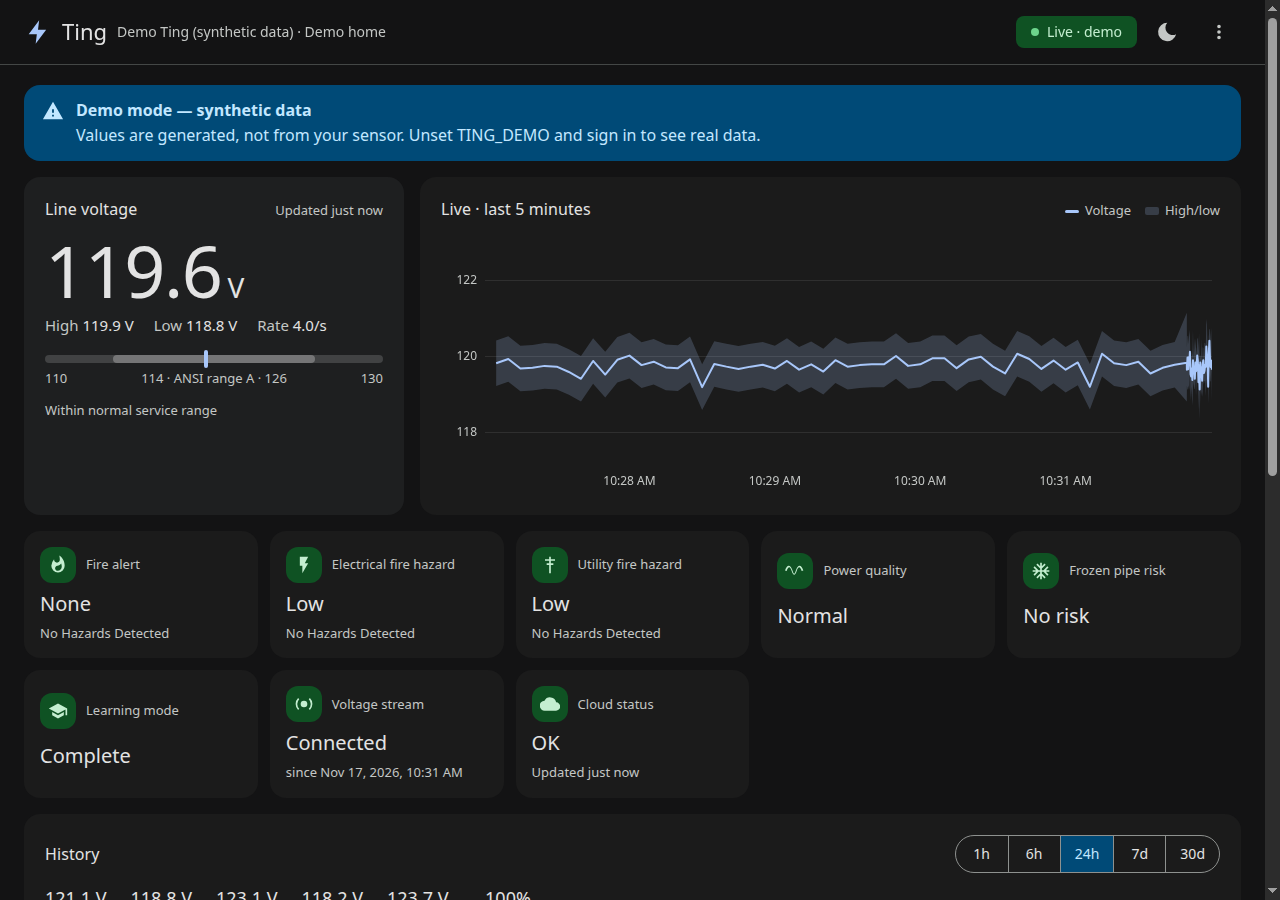
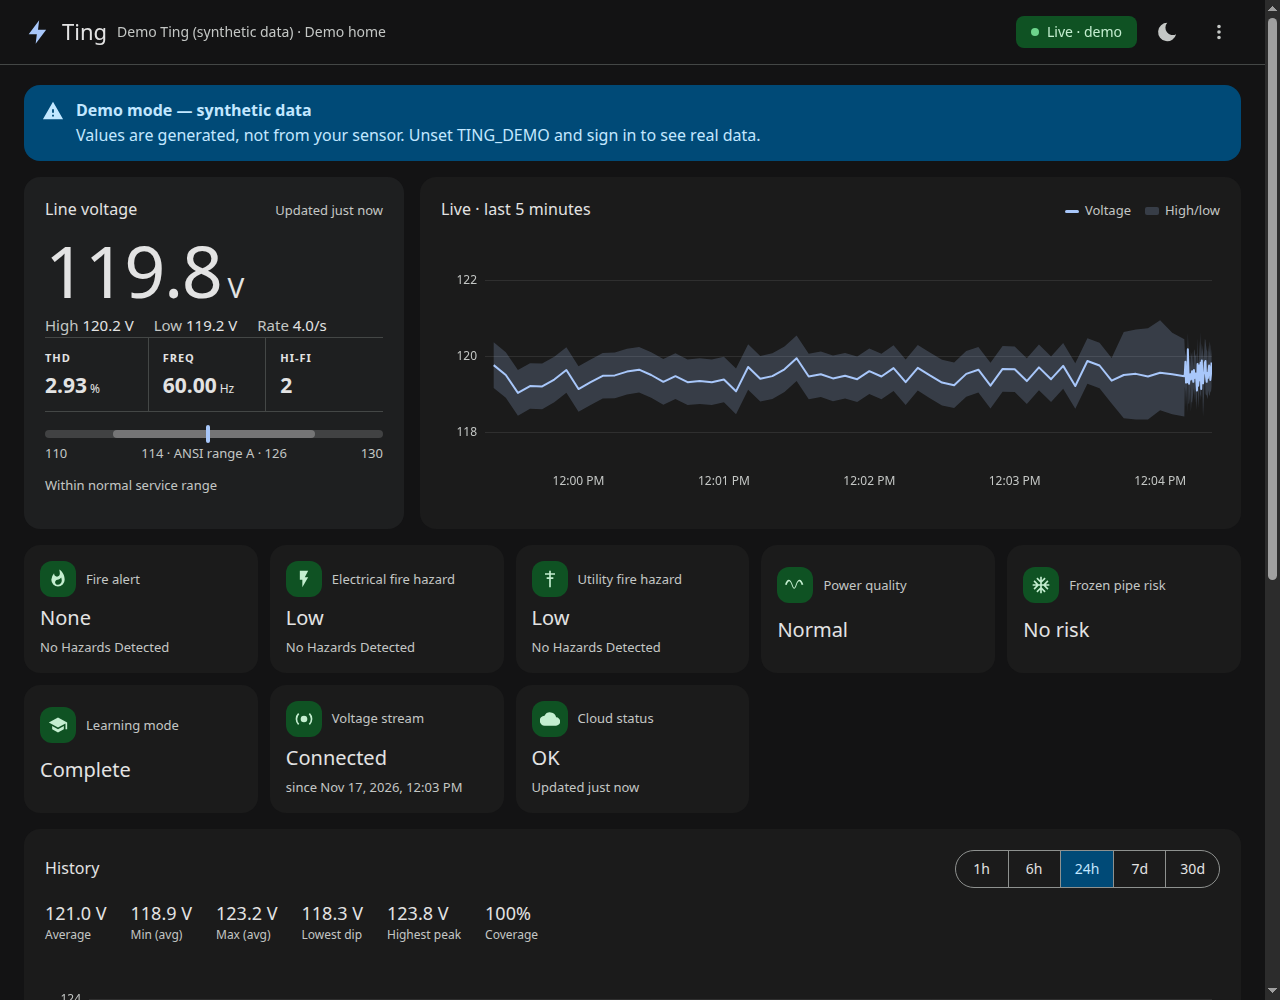
Show THD, frequency, and hi-fi peak count from the stream
The voltage frame carries more than voltage: Ting also sends THD, line
frequency, and a peak count. They were decoded away. Now every finite
scalar field rides along as an extra, /api/state exposes them as
"signal", samples carry them as "m", and the hero card renders them in
a strip beside the reading the way the phone app does. Unrecognised
fields show under their raw name, so a new one appears without a code
change.

The payload's key names are logged once per connection at INFO, which is
how the field behind the app's HI-FI number can be confirmed against a
real account.

diff --git a/static/app.js b/static/app.js
@@ -106,6 +106,7 @@
   function renderState() {
     const s = st.snap;
     if (!s) return;
+    renderSignal((s.signal || {})[st.station]);
     const devices = s.devices || [];
     if (!devices.some((d) => d.serial === st.station)) {
       const prev = st.station;
@@ -240,8 +241,48 @@
     requestDraw();
   }
 
+  // Extra stream measurements — THD, line frequency, peak ("hi-fi") count.
+  // Ting names these fields; we label the ones we recognise and show any
+  // other scalar under its raw name, so a new field appears without a code
+  // change.
+  const SIG_LABELS = {
+    thd: ["THD", "%", 2],
+    frequency: ["Freq", "Hz", 2],
+    linefrequency: ["Freq", "Hz", 2],
+    frequencyhz: ["Freq", "Hz", 2],
+    averagepeaksmax: ["Hi-Fi", "", 0],
+    peaks: ["Hi-Fi", "", 0],
+  };
+  const SIG_ORDER = ["thd", "frequency", "linefrequency", "frequencyhz", "averagepeaksmax"];
+
+  function renderSignal(meas) {
+    const strip = $("signal-strip");
+    const entries = Object.entries(meas || {})
+      .filter(([, v]) => typeof v === "number" && Number.isFinite(v));
+    if (!entries.length) {
+      strip.replaceChildren();
+      strip.hidden = true;
+      return;
+    }
+    entries.sort((a, b) => {
+      const ia = SIG_ORDER.indexOf(a[0].toLowerCase());
+      const ib = SIG_ORDER.indexOf(b[0].toLowerCase());
+      return (ia < 0 ? 99 : ia) - (ib < 0 ? 99 : ib)
+        || a[0].localeCompare(b[0]);
+    });
+    strip.replaceChildren(...entries.map(([key, value]) => {
+      const [label, unit, digits] = SIG_LABELS[key.toLowerCase()] || [key, "", 2];
+      const cell = el("div", "sig");
+      cell.append(el("span", "sig-label", label), el("span", "sig-num mono", Number(value).toFixed(digits)));
+      if (unit) cell.append(el("span", "sig-unit", unit));
+      return cell;
+    }));
+    strip.hidden = false;
+  }
+
   function renderHero() {
     const p = st.recent[st.recent.length - 1];
+    renderSignal(p?.m);
     $("live-v").textContent = fmtV(p?.v);
     $("live-hi").textContent = p ? `${fmtV(p.hi)} V` : "—";
     $("live-lo").textContent = p ? `${fmtV(p.lo)} V` : "—";
@@ -487,6 +528,9 @@
   // ---------------------------------------------------------------- SSE
   const sse = { ok: true, es: null };
   function connect() {
+    // Seed the strip from the last snapshot so it is not blank until the
+    // first sample frame arrives.
+    renderSignal((st.snap?.signal || {})[st.station]);
     const es = new EventSource("/api/live");
     sse.es = es;
     es.addEventListener("open", () => { sse.ok = true; if (st.snap) renderState(); });

diff --git a/static/app.css b/static/app.css
@@ -154,6 +154,22 @@ h2 { font-size: 16px; letter-spacing: .1px; }
 .hero-value #live-v { font-size: 72px; line-height: 1; font-weight: 400; letter-spacing: -1.5px; }
 .hero-value .unit { font-size: 28px; }
 .hero-sub { display: flex; gap: 20px; flex-wrap: wrap; font-size: 15px; }
+/* Signal strip — the extra numbers the stream carries (THD, line frequency,
+   peak/hi-fi count) laid out like the phone app's stat row. */
+.signal-strip {
+  display: flex;
+  flex-wrap: wrap;
+  margin: 0 0 18px;
+  border-top: 1px solid var(--outline-variant);
+  border-bottom: 1px solid var(--outline-variant);
+}
+.sig { flex: 1 1 0; min-width: 84px; padding: 12px 14px 11px; border-left: 1px solid var(--outline-variant); }
+.sig:first-child { border-left: 0; padding-left: 0; }
+.sig-label { display: block; font-size: 11px; font-weight: 600; letter-spacing: .09em;
+  text-transform: uppercase; color: var(--muted-fg); margin-bottom: 4px; }
+.sig-num { font-size: 21px; font-weight: 600; }
+.sig-unit { font-size: 12px; font-weight: 500; color: var(--muted-fg); margin-left: 3px; }
+
 .range-meter { position: relative; height: 8px; border-radius: 4px; margin: 18px 0 6px;
   background: color-mix(in srgb, var(--on-primary-container) 18%, transparent); }
 .range-band { position: absolute; left: 20%; width: 60%; top: 0; bottom: 0; border-radius: 4px;

diff --git a/static/index.html b/static/index.html
@@ -71,6 +71,7 @@
           <div><span class="muted">Low</span> <span id="live-lo" class="mono">—</span></div>
           <div><span class="muted">Rate</span> <span id="live-rate" class="mono">—</span></div>
         </div>
+        <div class="signal-strip" id="signal-strip" hidden></div>
         <div class="range-meter" aria-hidden="true">
           <div class="range-band"></div>
           <div class="range-marker" id="range-marker"></div>

diff --git a/app/main.py b/app/main.py
@@ -54,6 +54,7 @@ class Hub:
         self.poll_error: str | None = None
         self.stream_status: dict[str, dict[str, Any]] = {}
         self.latest: dict[str, dict[str, Any]] = {}
+        self.signal: dict[str, dict[str, float]] = {}
         self.recent: dict[str, deque] = {}
         self.subscribers: set[asyncio.Queue] = set()
 
@@ -68,6 +69,7 @@ class Hub:
             "poll_interval": const.POLL_INTERVAL,
             "streams": self.stream_status,
             "latest": self.latest,
+            "signal": self.signal,
             "server_time": time.time(),
         }
 
@@ -89,6 +91,13 @@ class Hub:
             "lo": round(s.voltage_lo, 2),
         }
         self.latest[station] = point
+        # Everything the frame carried beyond voltage: THD, line frequency,
+        # peak counts — whatever Ting names them. The UI labels what it knows
+        # and shows the rest under their raw names.
+        signal = dict(s.extras)
+        self.signal[station] = signal
+        if signal:
+            point["m"] = {k: round(v, 4) for k, v in signal.items()}
         buf = self.recent.setdefault(station, deque(maxlen=RECENT_SECONDS * 6))
         buf.append(point)
         cutoff = ts - RECENT_SECONDS
@@ -223,8 +232,15 @@ async def demo_loop(app: web.Application) -> None:
     while True:
         t = time.time()
         v = 121 + 1.5 * math.sin(t / 7200) + random.gauss(0, 0.25)
-        sample = VoltageData(datetime.fromtimestamp(t, UTC), v, v + random.uniform(0.2, 0.9),
-                             v - random.uniform(0.2, 0.9), v + 0.5)
+        sample = VoltageData(
+            datetime.fromtimestamp(t, UTC), v, v + random.uniform(0.2, 0.9),
+            v - random.uniform(0.2, 0.9), random.choice([0, 1, 2, 3, 4, 4, 5]),
+            extras={
+                "Thd": round(random.gauss(2.8, 0.25), 2),
+                "Frequency": round(60 + random.gauss(0, 0.012), 3),
+                "AveragePeaksMax": float(random.choice([0, 1, 2, 3, 4, 4, 5])),
+            },
+        )
         hub.on_sample(serial, sample, store)
         hub.last_poll = time.time()
         await asyncio.sleep(0.25)

diff --git a/tests/test_app.py b/tests/test_app.py
@@ -128,6 +128,42 @@ def _voltage_frame(v):
     return protocol.frame_messagepack([1, {}, None, "updateComboBinaryData", [payload]])
 
 
+def test_decode_extra_measurements():
+    """THD / frequency / peak count ride along as extras, non-scalars dropped."""
+    payload = {
+        "Voltage": 120.8, "VoltageHi": 124.9, "VoltageLo": 116.3,
+        "DataTimeUtc": datetime.now(UTC).isoformat(),
+        "Thd": 2.76, "Frequency": 60.01, "AveragePeaksMax": 4,
+        "StationName": "kitchen",          # string, not a measurement
+        "Nested": {"ignored": 1.0},        # not a scalar
+        "Bad": float("nan"),               # not finite
+    }
+    msg = [1, {}, None, "updateComboBinaryData", [payload]]
+    data = protocol.decode_voltage_update(msg)
+    assert data is not None
+    assert data.extras == {"Thd": 2.76, "Frequency": 60.01, "AveragePeaksMax": 4.0}
+    assert "StationName" in data.fields
+
+
+async def test_signal_reaches_state_and_samples(aiohttp_client, tmp_path, monkeypatch):
+    from app import const, main
+
+    monkeypatch.setattr(const, "DATA_DIR", str(tmp_path))
+    cl = await aiohttp_client(main.make_app(demo=True))
+    state = None
+    for _ in range(50):
+        state = await (await cl.get("/api/state")).json()
+        if state["latest"]:
+            break
+        await asyncio.sleep(0.1)
+    assert state is not None
+    station = state["devices"][0]["serial"]
+    sig = state["signal"][station]
+    assert set(sig) == {"Thd", "Frequency", "AveragePeaksMax"}
+    recent = await (await cl.get(f"/api/recent?station={station}")).json()
+    assert "m" in recent[-1] and "Thd" in recent[-1]["m"]
+
+
 async def test_stream_against_fake_hub(monkeypatch, aiohttp_server):
     seen = {"invocations": [], "headers": None}
 

diff --git a/app/protocol.py b/app/protocol.py
@@ -100,6 +100,11 @@ class VoltageData:
     # connection so new fields (e.g. harmonic distortion) can be identified
     # from a debug log without a packet capture.
     fields: tuple[str, ...] = field(default=(), compare=False, repr=False)
+    # Scalar fields the payload carries beyond the voltage ones — THD,
+    # line frequency, peak counts, whatever else Ting adds. Surfaced as-is
+    # so the dashboard can show the same numbers as the mobile app without
+    # hard-coding a field name that may change upstream.
+    extras: dict[str, float] = field(default_factory=dict, compare=False, repr=False)
 
 
 def encode_varint(value: int) -> bytes:
@@ -273,6 +278,17 @@ def decode_voltage_update(message: list[Any]) -> VoltageData | None:
         except (KeyError, TypeError, ValueError):
             return default
 
+    known = {"Voltage", "VoltageHi", "VoltageLo", "DataTimeUtc"}
+    extras: dict[str, float] = {}
+    for key, value in payload.items():
+        name = str(key)
+        if name in known or isinstance(value, (str, bytes, bool)):
+            continue
+        try:
+            extras[name] = _finite_float(value)
+        except (TypeError, ValueError):
+            continue  # nested dicts/arrays are not signal scalars
+
     return VoltageData(
         timestamp=_decode_timestamp(payload.get("DataTimeUtc")),
         voltage=voltage,
@@ -280,6 +296,7 @@ def decode_voltage_update(message: list[Any]) -> VoltageData | None:
         voltage_lo=_number("VoltageLo", voltage),
         average_peaks_max=_number("AveragePeaksMax", 0.0),
         fields=tuple(sorted(str(key) for key in payload)),
+        extras=extras,
     )
 
 

diff --git a/app/stream.py b/app/stream.py
@@ -53,6 +53,7 @@ class VoltageStream:
         self._on_sample = on_sample
         self._on_status = on_status
         self._msg_id = 0
+        self._logged_fields = False
         self._task: asyncio.Task | None = None
 
     def start(self) -> None:
@@ -159,6 +160,13 @@ class VoltageStream:
     def _handle(self, message: list) -> bool:
         sample = protocol.decode_voltage_update(message)
         if sample is not None:
+            if not self._logged_fields:
+                # Log the payload's key names once per connection: it is how a
+                # new or renamed field (THD, frequency, the app's "hi-fi" value)
+                # is identified from the container log without a capture.
+                self._logged_fields = True
+                _LOGGER.info("Stream %s payload fields: %s",
+                             self.station_id, ", ".join(sample.fields))
             self._on_sample(self.station_id, sample)
             return True
         if protocol.completion_message(message):

diff --git a/README.md b/README.md
@@ -15,6 +15,10 @@ that needs no internet access to render.
 
 - **Live voltage**, ~4 samples/second streamed over SSE, with a high/low
   envelope, sample rate, and ANSI C84.1 range-A markers
+- **Signal strip** — every other measurement the voltage frame carries, shown
+  beside the reading: THD, line frequency, and the peak ("hi-fi") count. Fields
+  are passed through from the payload, so a new one appears without a code
+  change.
 - **Hazard tiles** — fire alert, electrical fire hazard, utility fire hazard,
   power quality, frozen-pipe risk, learning mode, cloud poll age
 - **History** — 5-second buckets in SQLite, downsampled on the fly for
@@ -90,7 +94,7 @@ endpoints, and no endpoint mutates Ting state.
 
 | Endpoint | Purpose |
 | --- | --- |
-| `GET /api/state` | auth state, devices, hazard status, stream state |
+| `GET /api/state` | auth state, devices, hazard status, stream state, `signal` (THD/frequency/peaks) |
 | `GET /api/recent?station=SERIAL` | last 5 minutes of samples (seeded from history) |
 | `GET /api/history?station=SERIAL&range=1h\|6h\|24h\|7d\|30d` | downsampled buckets |
 | `GET /api/events?station=SERIAL` | notifications + status-change log |

diff --git a/CHANGELOG.md b/CHANGELOG.md
@@ -18,6 +18,9 @@ First public release.
 - PWA manifest and icons (installable on iOS/Android/desktop), version in the
   footer, ⋮ menu with *Sign out* and *Unlink Ting account*.
 - `/api/session`, `/api/version`, `/api/unlink`; `/manifest.webmanifest`.
+- Signal strip: THD, line frequency, and peak ("hi-fi") count taken from the
+  voltage frame's extra fields; unknown scalar fields are shown under their raw
+  name, and `/api/state` exposes them as `signal`.
 - The 5-minute live chart is seeded from stored history, so a freshly opened
   page is drawn full instead of filling in from the right.
 - Actionable startup error when the data directory is not writable.
